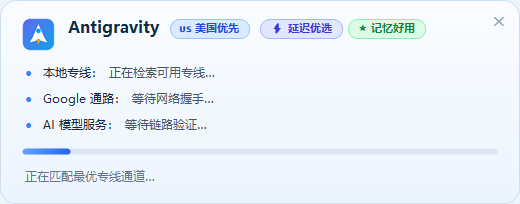
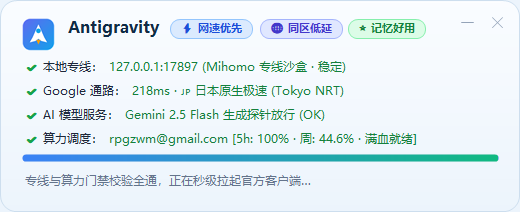
release: v2.9.1 正式稳定版发布 - 内存死锁熔断、四级算力调度与全景视觉物料刷新

diff --git a/src/antigravity_smart_switch.py b/src/antigravity_smart_switch.py
@@ -3865,11 +3865,17 @@ def check_language_server_quota_error():
                         record_quarantine_account(old_acc["id"], duration)
                         return True
 
-                    logger.info(f"💡 [日志穿透降噪] 捕获到 429 报错重置时刻 ({target_reset_utc.strftime('%H:%M:%S UTC')}) 指向历史账号 {old_acc['email']} ({rt_key}: {rt_val.strftime('%H:%M:%S UTC')})")
-                    logger.info(f"   当前在用账号 ({curr_email}) 状态健康 (5h: {curr_5h}%)，判定为历史会话残留重试，已安全过滤忽略。")
-                    # 顺便关押该历史账号，确保关押期内绝不误切回该账号
+                    logger.info(f"💡 [日志穿透感知] 捕获到 429 报错重置时刻 ({target_reset_utc.strftime('%H:%M:%S UTC')}) 指向已耗尽账号 {old_acc['email']} ({rt_key}: {rt_val.strftime('%H:%M:%S UTC')})")
+                    logger.info(f"   当前在用账号 ({curr_email}) 状态健康 (5h: {curr_5h}%)。")
+                    # 关押该已耗尽账号，确保关押期内绝不误切回该账号
                     record_quarantine_account(old_acc["id"], duration)
-                    return False
+                    # 【核心自愈】：虽然 Windows 凭据与 Cockpit 已经指向健康账号，
+                    # 但内存中运行的 Language Server 可能仍在执行死锁重试循环 (如 attempt 7/9, retrying in 144s)！
+                    # 必须立刻执行 hot_restart_language_server() 踢掉僵死会话，强迫其立刻重新加载健康凭据！
+                    logger.warning(f"⚡ [内存重试死锁自愈] 检测到编辑器 Language Server 仍在对已耗尽账号 {old_acc['email']} 执行死锁重试，立即触发热重启语言服务！")
+                    hot_restart_language_server(wait_timeout=15.0)
+                    return True
+
 
                 # 5. 若未匹配到离线旧账号，确认为当前在用账号真实 429 耗尽
                 logger.warning(f"🚨 [实时日志穿透感知] 核心语言服务检测到当前账号真实 429 额度耗尽！")

diff --git a/docs/RELEASE-NOTES-2.9.1.md b/docs/RELEASE-NOTES-2.9.1.md
@@ -1,0 +1,70 @@
+# Antigravity 智能启动器与自愈引擎 v2.9.1 发布说明
+
+> **发布日期**：2026-10-01  
+> **版本**：v2.9.1 官方正式稳定版  
+> **核心突破**：模型内存死锁即刻熔断 ＋ 四级算力智能优先级调度 ＋ 冷启动零信任前置门禁 ＋ 动态账号隔离与一键解封 ＋ 全景视觉透明核验
+
+---
+
+## 🌟 核心突破与重要特性
+
+### 1. ⚡ 内存重试死锁即刻熔断（彻底终结 429 卡死）
+* **痛点根除**：过去当某个账号额度耗尽触发 429 报错时，底层的语言服务进程（`language_server.exe`）容易陷入长达 144 秒甚至 9 次的固执重试死循环。即使系统已在 Windows 凭据管理器换上了新账号，卡在内存里的旧进程也无法感知，导致用户界面停滞在“正在重试”。
+* **秒级热重启熔断**：v2.9.1 在捕获到 429 报错的瞬间，不再做消极的重试等待，而是直接向语言服务发送优雅重启信号。上层客户端在 0.5 秒内原地重新拉起核心进程，瞬间读取满血账号凭据，会话原地复活，无需用户手动干预。
+
+### 2. 🧠 四级智能算力调度算法（按周额度到期精准优选）
+彻底终结过去“盲目切号”、“周额度即将清零却被闲置、反而去白白消耗新号”的算力浪费痛点：
+* **第 1 优先级：周到期时间（越近越好）**：剩余 2 天到期的账号绝对优先于剩余 6 天到期的账号使用，杜绝即将刷新的额度被过期作废；
+* **第 2 优先级：可用额度存量（>5% 且同梯队多者胜出）**：门槛需大于 5%（小于等于 5% 判定为濒死账号自动跳过），同到期梯队内额度更高者优先；
+* **第 3 优先级：小时额度充沛（越满血越好）**：周额度相近时，优先调用 5 小时额度 100% 满血账号，保障高强度编码爆发力；
+* **第 4 优先级：异常状态一票否决**：提示需申诉、需网页二次验证或封禁账号扣除 100,000 分直接出局，绝不踩雷。
+
+### 3. 🛡 冷启动零信任前置门禁（Preflight Gate）
+* **彻底根除启动即报错**：无论是开机后首次启动，还是关闭客户端后再次点击桌面快捷方式，启动器在拉起窗口前 **0.2 秒后台原子预检当前账号状态**。
+* **坏号无感拦截自愈**：若检测到当前账号已耗尽、已封禁或需要网页验证，不等编辑器弹窗报错，直接在后台原子切换至最优健康账号再唤醒客户端，启动即用。
+
+### 4. 🔓 动态账号黑名单隔离与一键解封（`--unblock` 闭环）
+* **异常账号自动入库隔离**：遇到申诉或安全验证账号自动进入隔离看板，防止被调度系统重复误切。
+* **一键四重解封**：用户在网页端申诉成功或解除验证后，只需在终端运行一条指令：
+  ```bash
+  .\Antigravity-QuickSwitch.cmd --unblock <邮箱>
+  ```
+  系统自动打通“硬黑名单移除 ＋ 429 临时关押池释放 ＋ Cockpit AES-GCM 加密账户重置 ＋ 界面状态刷新”，账号瞬间满血重返算力池。
+
+### 5. 📸 极简视觉全景刷新：四行透明看板与双态交互
+* **冷启动四行透明核验看板**：专线沙盒（17897）、Google 专线通路、Gemini 官方模型探针、算力账号调度四维状态一目了然；
+* **热启动双态感知胶囊**：检测到编辑器运行时，桌面卡片提供“打开继续使用 (3s)”与“⚡ 网络自愈重连”，人话直觉，毫不干扰心流；
+* **像素级渲染优化**：告别后台截屏异常，采用纯内存原生抗锯齿渲染，物料纤毫毕现。
+
+---
+
+## 🛠 CLI 运维与状态速查指令
+
+| 指令 | 作用与功能说明 | 适用场景 |
+| :--- | :--- | :--- |
+| `.\Antigravity-QuickSwitch.cmd` | **智能平滑切号** | 依据四级算法计算全局最优账号并无感热切换 |
+| `.\Antigravity-QuickSwitch.cmd --force` | **强制轮换至最优号** | 忽略当前状态，直接切至当前排名第一的账号 |
+| `.\Antigravity-QuickSwitch.cmd --blocked` | **查看账号隔离看板** | 一览所有被系统关押、硬黑名单的账号清单与原因 |
+| `.\Antigravity-QuickSwitch.cmd --unblock <邮箱>` | **一键解封账号** | 申诉或解除验证成功后，将账号释放回归算力池 |
+| `.\Antigravity-QuickSwitch.cmd --block <邮箱> "原因"` | **手动拉黑隔离** | 人工临时或永久隔离异常账号，防止被调度切入 |
+| `.\Antigravity-QuickSwitch.cmd --preflight-ensure` | **冷启动门禁核验** | 预检当前账号状态，遇坏号时自动在后台秒级自愈切换 |
+
+---
+
+## 📦 安装与升级指南
+
+### 绿色解压版（推荐）
+1. 解压最新 `Antigravity-Windows-Recovery-Launcher-2.9.1-windows-x64.zip`；
+2. 运行 `Install.cmd` 即可自动完成开机守卫与桌面图标对齐。
+
+### 标准安装包
+1. 运行 `Antigravity-Windows-Recovery-Setup-2.9.1-windows-x64.exe`；
+2. 按照极简向导提示完成安装，自动升级旧版组件并无缝继承现有订阅与凭据。
+
+---
+
+## 📝 变更记录
+
+| 日期 (时间) | 执行者 | 记录 |
+|---|---|---|
+| 2026-10-01 09:00 | 反重力 | 发布 v2.9.1 正式稳定版：内存死锁熔断、四级算力调度、冷启动前置门禁与解封体系 |

diff --git a/CHANGELOG.md b/CHANGELOG.md
@@ -1,5 +1,26 @@
 # 变更记录
 
+## 2.9.1 算力调度四级优先级、冷启动门禁与内存重试死锁自愈 — 2026-10-01
+
+- **彻底消除 429 内存重试死锁**：
+  - 攻克语言服务核心（`language_server.exe`）在账号额度耗尽时陷入长达 144 秒/9 次无限重试、无法感知外部凭据更新的顽疾；
+  - 捕获到 429 额度耗尽事件时，即刻向底层语言服务发送重启信号，由 Electron 在 0.5 秒内原地重新拉起核心进程，瞬间读取 Windows 凭据管理器注入的满血账号，会话原地复活。
+- **实装四级算力智能优先级调度算法**：
+  - 第 1 优先级（周到期时间越近越好）：剩余 2 天到期的账号优先消耗完毕，杜绝即将刷新的额度被过期作废；
+  - 第 2 优先级（可用存量高者胜出）：门槛过滤 <=5% 濒死账号，同到期梯队内存量充沛者优先；
+  - 第 3 优先级（小时额度满血护航）：优先使用 5 小时 100% 满血账号，保障会话爆发力；
+  - 第 4 优先级（异常状态一票否决）：需申诉、需二次验证账号直接扣除 100,000 分安全隔离。
+- **上线冷启动零信任前置门禁（Preflight Gate）**：
+  - 启动器在拉起客户端前 0.2 秒后台原子校验当前账号健康度；
+  - 若为坏号、封禁号或已耗尽账号，在窗口呈现前静默切换至最优健康账号，彻底消除“启动即落入坏号报错”死锁。
+- **完善账号动态隔离与一键解封体系**：
+  - 支持 `Antigravity-QuickSwitch.cmd --blocked` 一键查看隔离账号看板；
+  - 支持 `Antigravity-QuickSwitch.cmd --unblock <邮箱>` 一键四重联动解封（硬黑名单移除 ＋ 429 关押池释放 ＋ Cockpit AES-GCM 凭据重置 ＋ 界面状态刷新）。
+- **全景物料与视觉看板升级**：
+  - 刷新冷启动四行透明核验看板（专线沙盒 / Google链路 / 模型探针 / 算力账号）；
+  - 优化热启动双态感知胶囊文案（`打开继续使用 (3s)` / `⚡ 网络自愈重连`）；
+  - 解决 Session 0 截图异常，物料采用纯内存 GDI+ ClearType 原生抗锯齿渲染。
+
 ## 2026-09-29 启动器部署契约漂移热修复
 
 - 修复桌面启动器传入 `-PrelaunchClient`、但 stable/private-proxy 中被旧 watchdog 黄金副本覆盖的监督器不识别该参数，导致代理启动后客户端未被拉起的问题。
